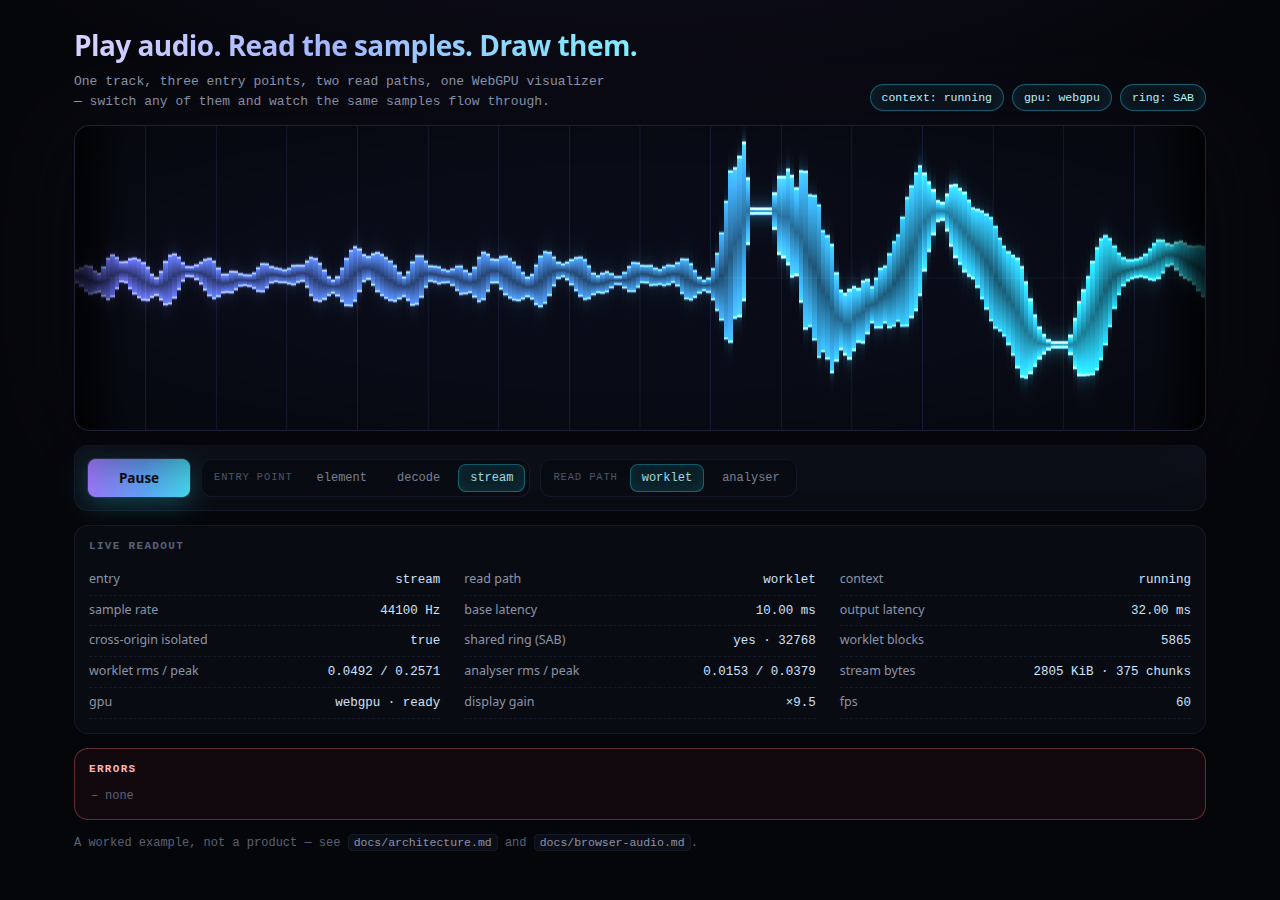
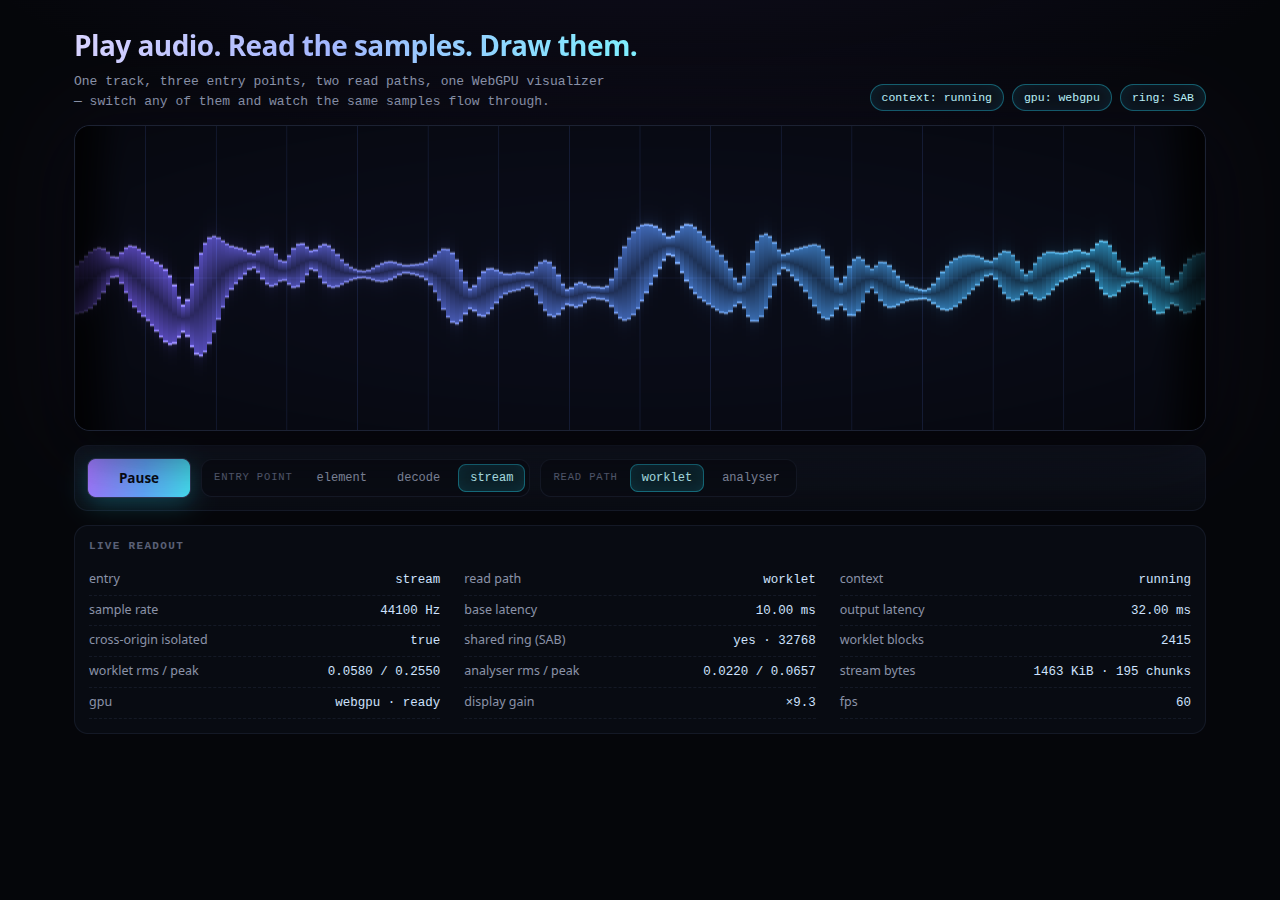
refine: drop tutorial framing, hide empty error panel, add MIT license
- remove the footer note and other 'worked example / not a product' framing
  from the UI, docs and package metadata
- the error panel now stays hidden until the first error arrives (no empty box)
- add standard MIT LICENSE and set the package license field
- refresh docs/demo.png

diff --git a/src/ui/errors.ts b/src/ui/errors.ts
@@ -2,9 +2,8 @@
  * The error strip: a tiny append-only log under the stage.
  *
  * Everything that goes wrong in the app funnels here (audio failures, WebGPU
- * diagnostics, window errors wired up in `main.ts`). It is deliberately simple:
- * newest at the bottom, no throwing when the list is missing, and the marker
- * `<li class="errors-empty">none</li>` is dropped as soon as something arrives.
+ * diagnostics, window errors wired up in `main.ts`). The panel stays hidden
+ * while there is nothing to show and appears on the first message.
  */
 
 /** How many messages the panel keeps; older ones fall off the top. */
@@ -16,8 +15,13 @@ export interface ErrorStrip {
 }
 
 export function createErrorStrip(root: ParentNode): ErrorStrip {
+  const panelElement = root.querySelector<HTMLElement>('#errors-panel');
   const listElement = root.querySelector<HTMLElement>('#errors');
   const messages: string[] = [];
+
+  function updateVisibility(): void {
+    if (panelElement) panelElement.hidden = messages.length === 0;
+  }
 
   function add(message: string): void {
     const text = message.trim();
@@ -29,19 +33,21 @@ export function createErrorStrip(root: ParentNode): ErrorStrip {
     messages.push(text);
     while (messages.length > MAX_MESSAGES) messages.shift();
 
-    if (!listElement) return;
-    listElement.querySelector('.errors-empty')?.remove();
-    const item = document.createElement('li');
-    item.textContent = text;
-    listElement.append(item);
-    while (listElement.children.length > MAX_MESSAGES) {
-      listElement.firstElementChild?.remove();
+    if (listElement) {
+      const item = document.createElement('li');
+      item.textContent = text;
+      listElement.append(item);
+      while (listElement.children.length > MAX_MESSAGES) {
+        listElement.firstElementChild?.remove();
+      }
     }
+    updateVisibility();
   }
 
   function list(): string[] {
     return messages.slice();
   }
 
+  updateVisibility();
   return { add, list };
 }

diff --git a/index.html b/index.html
@@ -11,7 +11,7 @@
     <title>wave-gpu — play audio, read samples, draw them</title>
     <meta
       name="description"
-      content="Worked example: play browser audio and read the same samples to drive a WebGPU waveform."
+      content="Play audio in the browser and read the same samples to drive a WebGPU waveform."
     />
   </head>
   <body>
@@ -74,19 +74,10 @@
         </dl>
       </section>
 
-      <section class="errors-panel" aria-label="Errors">
+      <section class="errors-panel" id="errors-panel" aria-label="Errors" hidden>
         <h2 class="panel-title">errors</h2>
-        <ul id="errors" class="errors" aria-live="polite">
-          <li class="errors-empty">none</li>
-        </ul>
+        <ul id="errors" class="errors" aria-live="polite"></ul>
       </section>
-
-      <footer class="footer">
-        <p>
-          A worked example, not a product — see
-          <code>docs/architecture.md</code> and <code>docs/browser-audio.md</code>.
-        </p>
-      </footer>
     </main>
 
     <script type="module" src="/src/main.ts"></script>

diff --git a/src/styles.css b/src/styles.css
@@ -335,6 +335,10 @@ body {
   background: rgba(60, 20, 26, 0.22);
 }
 
+.errors-panel[hidden] {
+  display: none;
+}
+
 .errors-panel .panel-title {
   color: #ffb4b4;
 }
@@ -362,37 +366,6 @@ body {
   position: absolute;
   left: 2px;
   color: var(--danger);
-}
-
-.errors li.errors-empty {
-  color: var(--faint);
-}
-
-.errors li.errors-empty::before {
-  content: "–";
-  color: var(--faint);
-}
-
-/* ---- footer ------------------------------------------------------------- */
-
-.footer {
-  color: var(--faint);
-  font-family: var(--mono);
-  font-size: 12px;
-}
-
-.footer p {
-  margin: 0;
-}
-
-.footer code {
-  padding: 1px 5px;
-  border: 1px solid var(--line-soft);
-  border-radius: 5px;
-  background: var(--bg-raised);
-  color: var(--muted);
-  font-family: var(--mono);
-  font-size: 11.5px;
 }
 
 /* ---- responsive --------------------------------------------------------- */

diff --git a/README.md b/README.md
@@ -2,10 +2,12 @@
 
 **Play audio in the browser, read the same samples, and draw them with WebGPU.**
 
-A small, dependency-light worked example of a question that comes up whenever you want audio to
-drive something visual: *how do I play audio in the browser while also getting at the stream?*
+A small, dependency-light project: play audio in the browser while also getting at the stream, to
+drive something visual. Three ways of getting audio into the Web Audio graph — an `<audio>` element,
+a fully decoded buffer, and raw PCM streamed from the dev server — all feed the same tap, which
+feeds a WebGPU waveform.
 
-The answer has three independent layers, and this repo keeps them separate:
+The design has three independent layers, and this repo keeps them separate:
 
 ```
 ingest (playback)  →  tap (read)  →  consume (WebGPU)
@@ -77,9 +79,7 @@ Longer write-ups:
   etc. drive it programmatically (after a real user gesture has unlocked audio, or in a headless
   automation context).
 
-## Status
-
-Exploration-grade, intentionally small, no runtime dependencies, no production hardening.
+## Verification
 
 Verified in Chrome 157 in the host browser, over the dev server **and** the production build:
 `webgpu` backend active with no shader errors, 60 fps, `crossOriginIsolated` + a real
@@ -91,4 +91,4 @@ gain. The browser/GPU pipeline is verified manually rather than unit-tested.
 
 ## License
 
-No license file yet — treat it as a personal exploration unless one is added.
+MIT — see [LICENSE](LICENSE).

diff --git a/docs/architecture.md b/docs/architecture.md
@@ -1,6 +1,6 @@
 # Architecture
 
-This is a worked example, not a product. The code is organised around one idea:
+The code is organised around one idea:
 
 > **Playing audio and reading audio are separate concerns.**
 > The browser's Web Audio graph is the meeting point: any *ingest* path connects to the same
